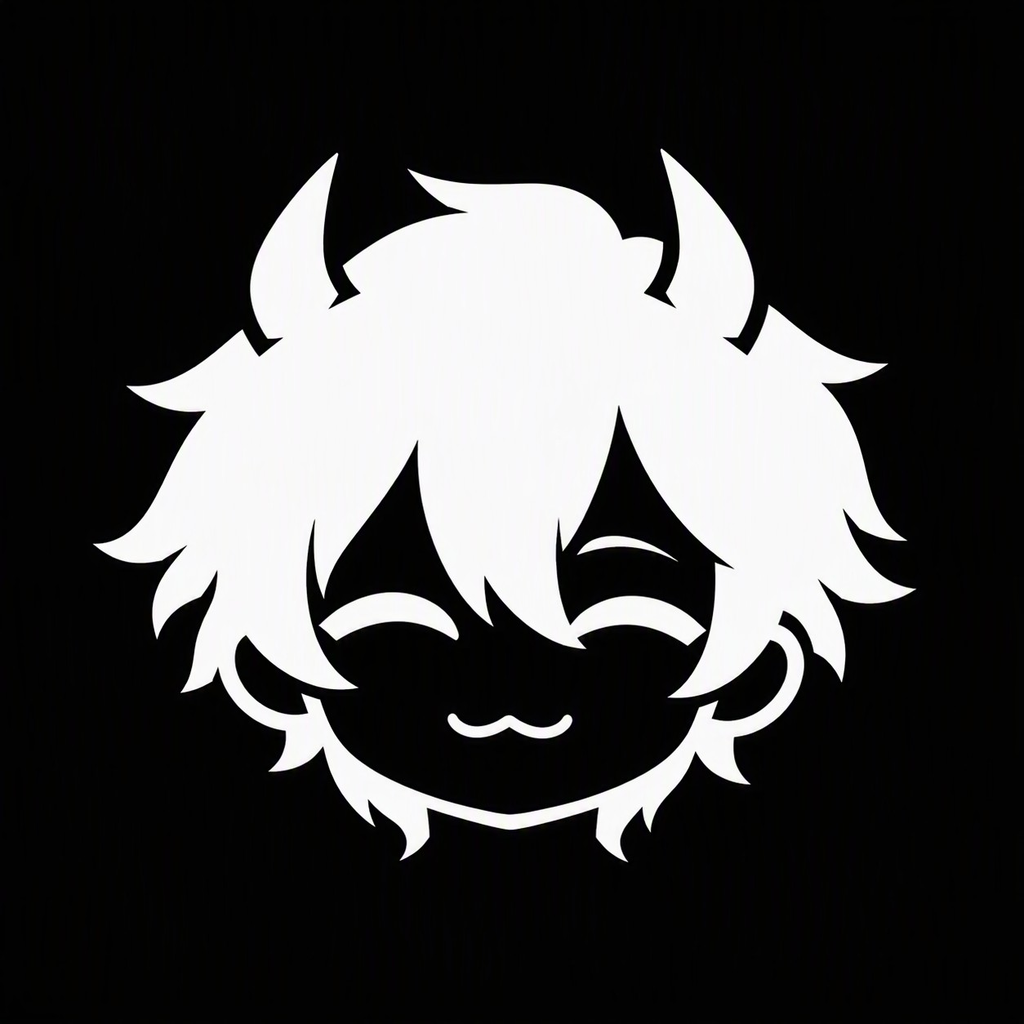
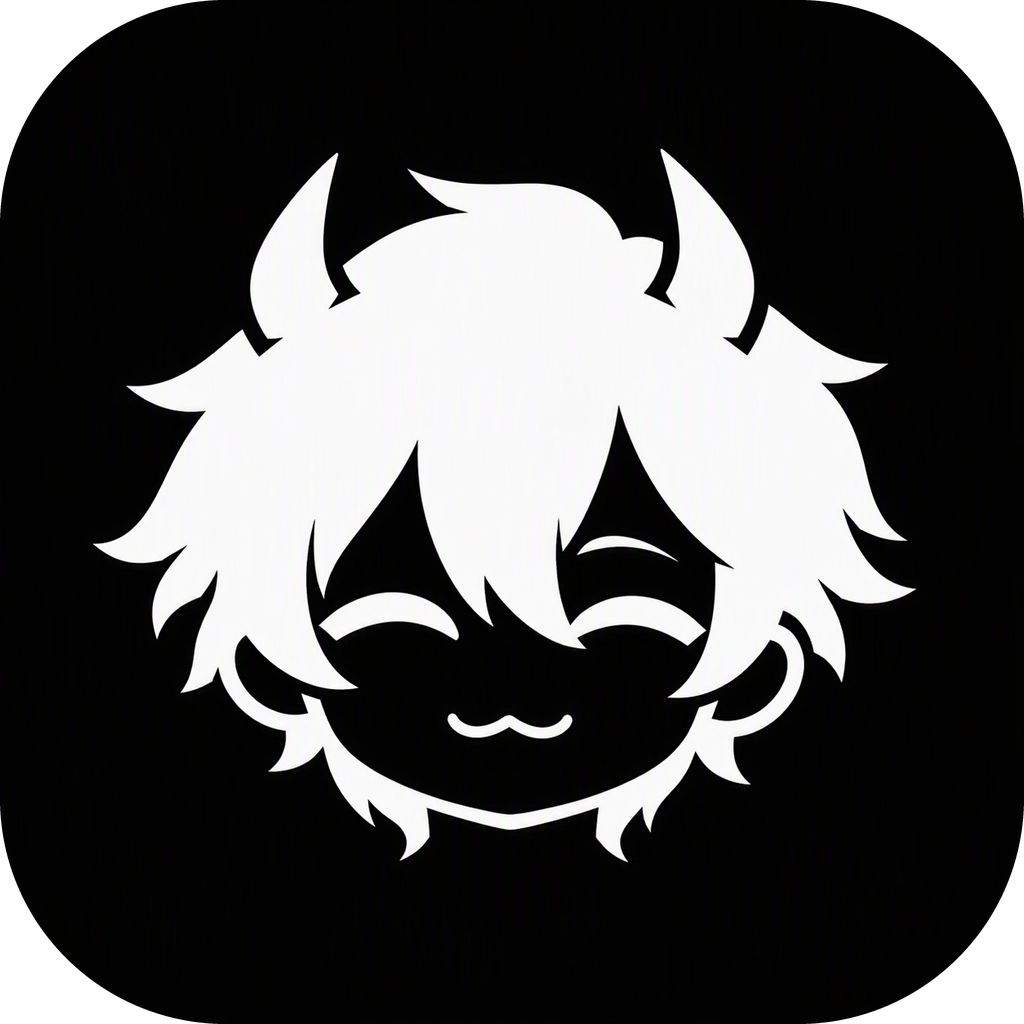
Ícone com cantos arredondados (adaptável no Android 8+) e links de nova aba abrindo fora no Android

diff --git a/app/src/main/java/app/tutoringles/MainActivity.java b/app/src/main/java/app/tutoringles/MainActivity.java
@@ -5,8 +5,10 @@ import android.app.Activity;
 import android.content.ActivityNotFoundException;
 import android.content.Intent;
 import android.content.pm.PackageManager;
+import android.graphics.Bitmap;
 import android.net.Uri;
 import android.os.Bundle;
+import android.os.Message;
 import android.speech.RecognitionListener;
 import android.speech.RecognizerIntent;
 import android.speech.SpeechRecognizer;
@@ -80,7 +82,8 @@ public class MainActivity extends Activity {
         s.setDomStorageEnabled(true);
         s.setDatabaseEnabled(true);
         s.setMediaPlaybackRequiresUserGesture(false);
-        s.setSupportMultipleWindows(false);
+        // links de "nova aba" (YouTube, Spotify) chegam em onCreateWindow, que manda para fora
+        s.setSupportMultipleWindows(true);
 
         CookieManager cookies = CookieManager.getInstance();
         cookies.setAcceptCookie(true);
@@ -108,6 +111,33 @@ public class MainActivity extends Activity {
                     fileCallback = null;
                     return false;
                 }
+            }
+
+            // Link de "nova aba": uma WebView descartável recebe o endereço, que vai para o app certo (YouTube, Spotify, navegador)
+            @Override
+            public boolean onCreateWindow(WebView view, boolean isDialog, boolean isUserGesture, Message resultMsg) {
+                WebView aba = new WebView(MainActivity.this);
+                aba.setWebViewClient(new WebViewClient() {
+                    private boolean aberto = false;
+                    private void abre(WebView v, Uri uri) {
+                        if (aberto || uri == null || "about".equals(uri.getScheme())) return;
+                        aberto = true;
+                        openOutside(uri);
+                        v.post(v::destroy);
+                    }
+                    @Override
+                    public boolean shouldOverrideUrlLoading(WebView v, WebResourceRequest request) {
+                        abre(v, request.getUrl());
+                        return true;
+                    }
+                    @Override
+                    public void onPageStarted(WebView v, String url, Bitmap favicon) {
+                        abre(v, url == null ? null : Uri.parse(url));
+                    }
+                });
+                ((WebView.WebViewTransport) resultMsg.obj).setWebView(aba);
+                resultMsg.sendToTarget();
+                return true;
             }
         });
 
